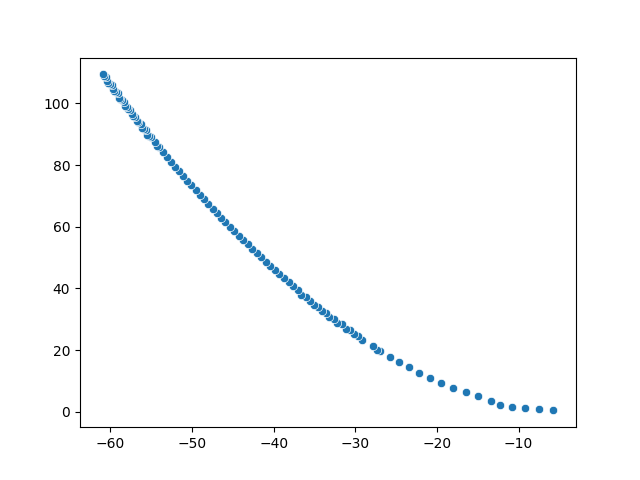
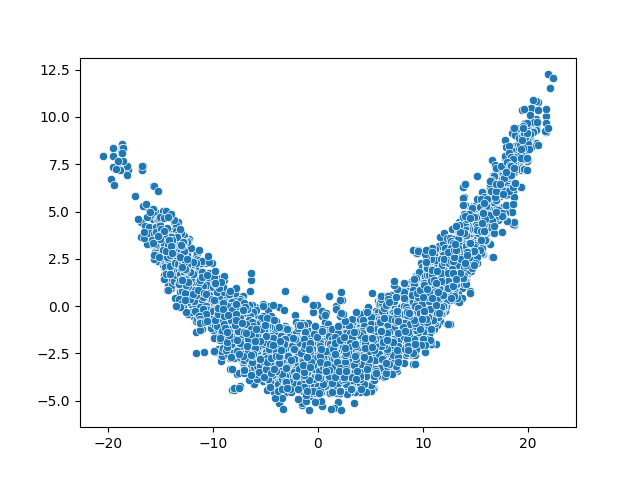
barely working gibbs

diff --git a/blackjax/mcmc/gibbs_hmc.py b/blackjax/mcmc/gibbs_hmc.py
@@ -6,122 +6,149 @@ import jax.numpy as jnp
 import blackjax.mcmc.nuts as nuts
 import blackjax
 
-def logdensity_fn(x):
-        mu2 = 0.03 * (x[0] ** 2 - 100)
-        return -0.5 * (jnp.square(x[0] / 10.0) + jnp.square(x[1] - mu2))
+# def logdensity_fn(x):
+#         mu2 = 0.03 * (x[0] ** 2 - 100)
+#         return -0.5 * (jnp.square(x[0] / 10.0) + jnp.square(x[1] - mu2))
 
 
-def logdensity_fn_joint(x,y):
-        mu2 = 0.03 * (x[0] ** 2 - 100)
-        return -0.5 * (jnp.square(x[0] / 10.0) + jnp.square(y[0] - mu2))
+# def logdensity_fn_joint(x,y):
+#         mu2 = 0.03 * (x[0] ** 2 - 100)
+#         return -0.5 * (jnp.square(x[0] / 10.0) + jnp.square(y[0] - mu2))
     
-
-def logdensity_fn_x(y):
-        return lambda x : -0.5 * (jnp.square(x / 10.0) + jnp.square(y - (0.03 * (x ** 2 - 100))))
-
-def logdensity_fn_x_easy(x):
-        mu2 = 0.03 * (x[0] ** 2 - 100)
-        return -0.5 * (jnp.square(x[0] / 10.0) + jnp.square(1.0 - mu2))
-    
-# Define the initial state
-rng_key = jax.random.PRNGKey(0)
-initial_position = jnp.array([1.0, 1.0])
-
-alg = blackjax.nuts(
-            logdensity_fn=logdensity_fn,
-            step_size=0.1,
-            inverse_mass_matrix=jnp.array([1.0, 1.0]),
-        )
-
-initial_state = alg.init(initial_position, rng_key)
+def logdensity_fn_joint(pos):
+        # jax.debug.print("pos {x}", x=pos)
+        mu2 = 0.03 * (pos['x'] ** 2 - 100)
+        return -0.5 * (jnp.square(pos['x'] / 10.0) + jnp.square(pos['y'] - mu2))
 
 
-kernel = blackjax.nuts.build_kernel()
+# pos = {'x': 1.0}
 
-position_x = jnp.array([0.1])
-position_y = jnp.array([0.2])
+# print(state)
+
+# state = hmc.init({'x': 1.0, 'y': 1.0}, logdensity_fn=lambda pos: logdensity_fn_joint({'x': pos['x'], 'y': 0.}))
+# pos = {'x': 1.0, 'y': 1.0}
+
+# lfunc = lambda pos: logdensity_fn_joint({'x': pos['x'], 'y': state.position['y']})
+
+# print(lfunc(state.position))
+
+# print(jax.grad(lfunc)(state.position))
+
+# curried_logdensity_fn = lambda state: lambda pos: logdensity_fn_joint({'x': pos['x'], 'y': state.position['y']})
+
+# print(state)
 
 
-# print(logdensity_fn_x_easy(jnp.array([1.0])))
-flip = lambda f: lambda x, y: f(x=y, y=x)
 
-state_x = hmc.init(position_x, logdensity_fn=partial(logdensity_fn_joint, y=jnp.array([1])))
-state_y = hmc.init(position_y, logdensity_fn=partial(flip(logdensity_fn_joint), y=jnp.array([2])))
-
-
-# state_x = hmc.init(position_x, logdensity_fn=logdensity_fn_x_easy)
-# state_x = hmc.init(position_x, logdensity_fn=logdensity_fn_x_easy)
-
-# print(state_x)
 @jax.jit
-def gibbs_kernel(rng_key, state):
-    state_x, state_y = state
-    print(state_x.position.shape)
-    rng_key_1, rng_key_2 = jax.random.split(rng_key)
-    # print(state_x.position[1])
-    # new_state_x, info = kernel(
-    #        rng_key=rng_key_1,
-    #        state=state_x,
-    #        logdensity_fn=partial(logdensity_fn_joint, y=state_y.position),
-    #     #    logdensity_fn=logdensity_fn_x(y=position[1]),
-    #        step_size=0.1,
-    #        inverse_mass_matrix=jnp.array([1.0]),
-
-    # )
-
-    # new_state_y, info = kernel(
-    #        rng_key=rng_key_2,
-    #        state=state_y,
-    #        logdensity_fn=partial(flip(logdensity_fn_joint),y=new_state_x.position),
-    #     #    logdensity_fn=logdensity_fn_x(y=position[1]),
-    #        step_size=0.1,
-    #        inverse_mass_matrix=jnp.array([1.0]),
-
-    # )
-
-
-    new_full_state, info = alg.step(rng_key, hmc.HMCState(
-           position=jnp.concat([state_x.position, state_y.position], axis=0), 
-           logdensity=state_x.logdensity+state_y.logdensity, 
-           logdensity_grad=jnp.concat([state_x.logdensity_grad, state_y.logdensity_grad], axis=0),
-    ))
-    
-
-    print(new_full_state.position.shape, "bar")
-
-    new_state_x = hmc.HMCState(
-        position=new_full_state.position[:1],
-        logdensity=new_full_state.logdensity,
-        logdensity_grad=new_full_state.logdensity_grad[:1],
-    ) 
-
-    return (new_state_x, new_state_y), info 
-    
+def gibbs_kernel(rng_key, pos_joint):
   
+    rng_key_1, rng_key_2 = jax.random.split(rng_key)
 
-(next_state_x, next_state_y), info = gibbs_kernel(rng_key, (state_x, state_y))
+    x_state = hmc.init(pos_joint['x'], logdensity_fn=lambda x_pos : logdensity_fn_joint({'x': x_pos, 'y': pos_joint['y']}) )
+
+    # print(x_state)
+
+    new_state, info = blackjax.nuts.build_kernel()(
+        rng_key=rng_key_1,
+        state=x_state,
+        logdensity_fn=lambda x_pos : logdensity_fn_joint({'x': x_pos, 'y': pos_joint['y']}),
+        
+        # logdensity_fn_joint(hmc.HMCState(position={'x': state.position['x'], 'y': pos['y']}, logdensity=state.logdensity, logdensity_grad={'x': state.logdensity_grad['x'], 'y': state.logdensity_grad['y']})),
+        step_size=0.1,
+        # num_integration_steps=1,
+        inverse_mass_matrix=jnp.array([1.0]),
+        # inverse_mass_matrix=jax.tree.map(lambda x: 1.0, state.position),
+    )
 
 
-import numpy as np
-num_samples = 100
-x_poss = np.zeros((num_samples,))
-y_poss = np.zeros((num_samples,))
-# run this kernel for n steps
-for i in range(num_samples):
-    (next_state_x, next_state_y), info = gibbs_kernel(rng_key, (next_state_x, next_state_y))
-    # x_poss.at[i].set(next_state_x.position[0])
-    # y_poss.at[i].set(next_state_y.position[0])
+    pos_joint['x'] = new_state.position
 
-    x_poss[i] = next_state_x.position[0].item()
-    y_poss[i] = next_state_y.position[0].item()
+    y_state = hmc.init(pos_joint['y'], logdensity_fn=lambda y_pos : logdensity_fn_joint({'x': pos_joint['x'], 'y': y_pos}) ) 
+    
+    new_state, info = blackjax.nuts.build_kernel()(
+        rng_key=rng_key_2,
+        state=y_state,
+        logdensity_fn=lambda y_pos : logdensity_fn_joint({'x': pos_joint['x'], 'y': y_pos}),
+        
+        # logdensity_fn_joint(hmc.HMCState(position={'x': state.position['x'], 'y': pos['y']}, logdensity=state.logdensity, logdensity_grad={'x': state.logdensity_grad['x'], 'y': state.logdensity_grad['y']})),
+        step_size=0.1,
+        # num_integration_steps=1,
+        inverse_mass_matrix=jnp.array([1.0]),
+        # inverse_mass_matrix=jax.tree.map(lambda x: 1.0, state.position),
+    )
 
-# # next_state, info = alg.step(rng_key, initial_state)
+    pos_joint['y'] = new_state.position
 
-# scatterplot 
+    return pos_joint
+
+print(gibbs_kernel(jax.random.key(0), {'x': 1.0, 'y': 1.0}))
+
+def posterior_draw(key):
+        z = jax.random.normal(key, shape = (2, ))
+        x0 = 10.0 * z[0]
+        x1 = 0.03 * (x0 ** 2 - 100) + z[1]
+        return jnp.array([x0, x1])
+
+results = {'x': [], 'y': []}
+pos_joint_arr = posterior_draw(jax.random.key(0))
+pos_joint = {'x': pos_joint_arr[0], 'y': pos_joint_arr[1]}
+# pos_joint = {'x': 0.0, 'y': 0.0}
+for i in range(5000):
+        print(pos_joint)
+        pos_joint = gibbs_kernel(jax.random.key(i+1), pos_joint)
+        results['x'].append(pos_joint['x'].item())
+        results['y'].append(pos_joint['y'].item())
+
+
 import seaborn as sns
 import matplotlib.pyplot as plt
-sns.scatterplot(x=x_poss, y=y_poss)
+sns.scatterplot(x=results['x'], y=results['y'])
 # save plot
 plt.savefig('gibbs_hmc.png')
 
-# onsager idea brainstorm: 
+#     # new_full_state, info = alg.step(rng_key, hmc.HMCState(
+#     #        position=jnp.concat([state_x.position, state_y.position], axis=0), 
+#     #        logdensity=state_x.logdensity+state_y.logdensity, 
+#     #        logdensity_grad=jnp.concat([state_x.logdensity_grad, state_y.logdensity_grad], axis=0),
+#     # ))
+    
+
+#     print(new_full_state.position.shape, "bar")
+
+#     new_state_x = hmc.HMCState(
+#         position=new_full_state.position[:1],
+#         logdensity=new_full_state.logdensity,
+#         logdensity_grad=new_full_state.logdensity_grad[:1],
+#     ) 
+
+#     return (new_state_x, new_state_y), info 
+    
+  
+
+# (next_state_x, next_state_y), info = gibbs_kernel(rng_key, (state_x, state_y))
+
+
+# import numpy as np
+# num_samples = 100
+# x_poss = np.zeros((num_samples,))
+# y_poss = np.zeros((num_samples,))
+# # run this kernel for n steps
+# for i in range(num_samples):
+#     (next_state_x, next_state_y), info = gibbs_kernel(rng_key, (next_state_x, next_state_y))
+#     # x_poss.at[i].set(next_state_x.position[0])
+#     # y_poss.at[i].set(next_state_y.position[0])
+
+#     x_poss[i] = next_state_x.position[0].item()
+#     y_poss[i] = next_state_y.position[0].item()
+
+# # # next_state, info = alg.step(rng_key, initial_state)
+
+# # scatterplot 
+# import seaborn as sns
+# import matplotlib.pyplot as plt
+# sns.scatterplot(x=x_poss, y=y_poss)
+# # save plot
+# plt.savefig('gibbs_hmc.png')
+
+# # onsager idea brainstorm: 

diff --git a/blackjax/mcmc/integrators.py b/blackjax/mcmc/integrators.py
@@ -186,6 +186,7 @@ def euclidean_momentum_update_fn(kinetic_energy_fn: KineticEnergy):
         auxiliary_info=None,
         is_last_call=False,
     ):
+        
         del auxiliary_info
         new_momentum = jax.tree_util.tree_map(
             lambda x, grad: x + step_size * coef * grad,
